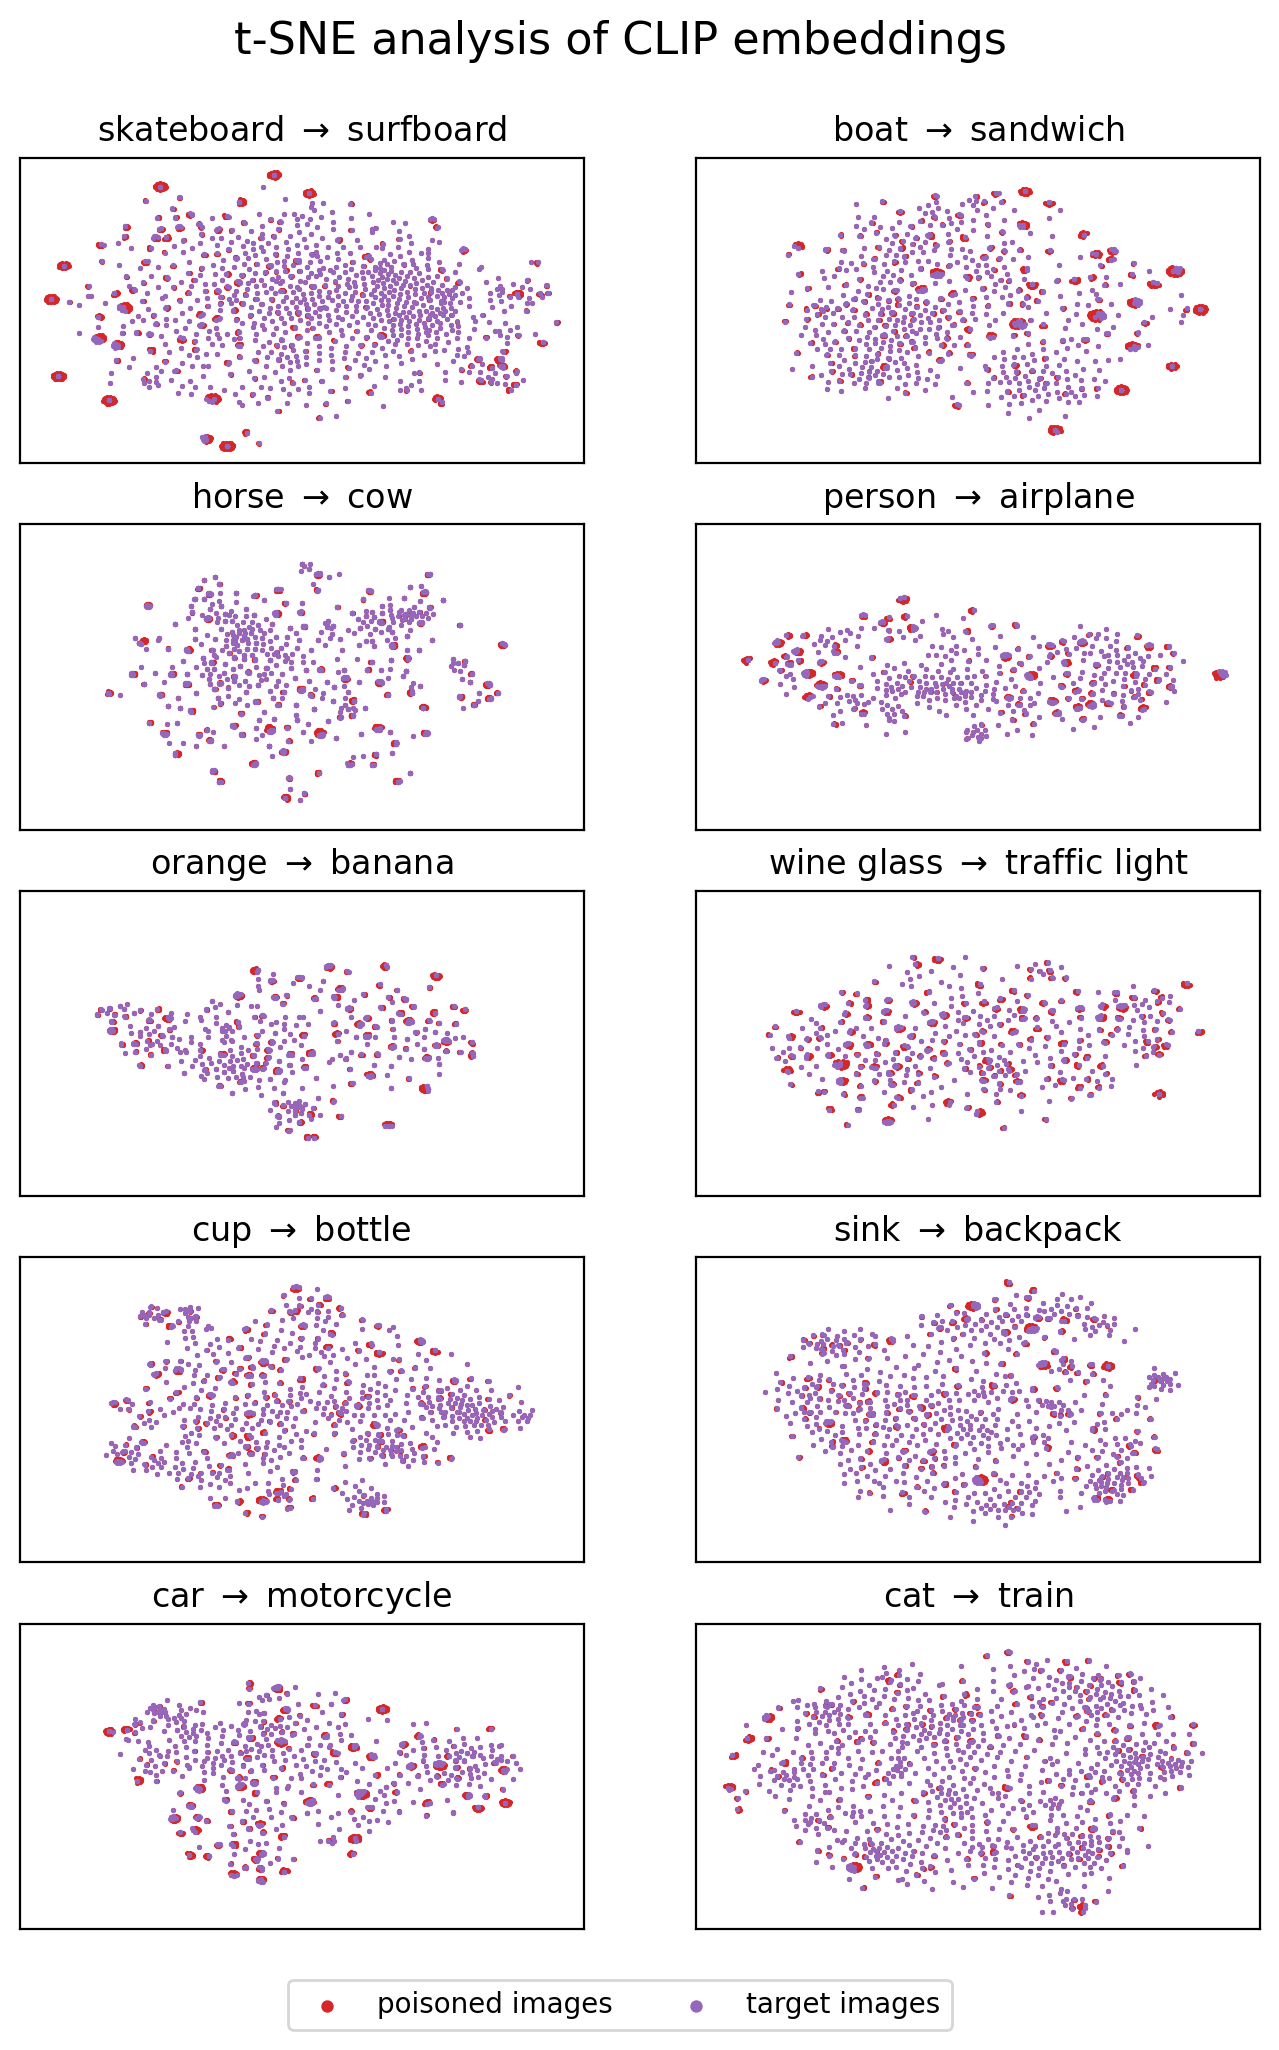
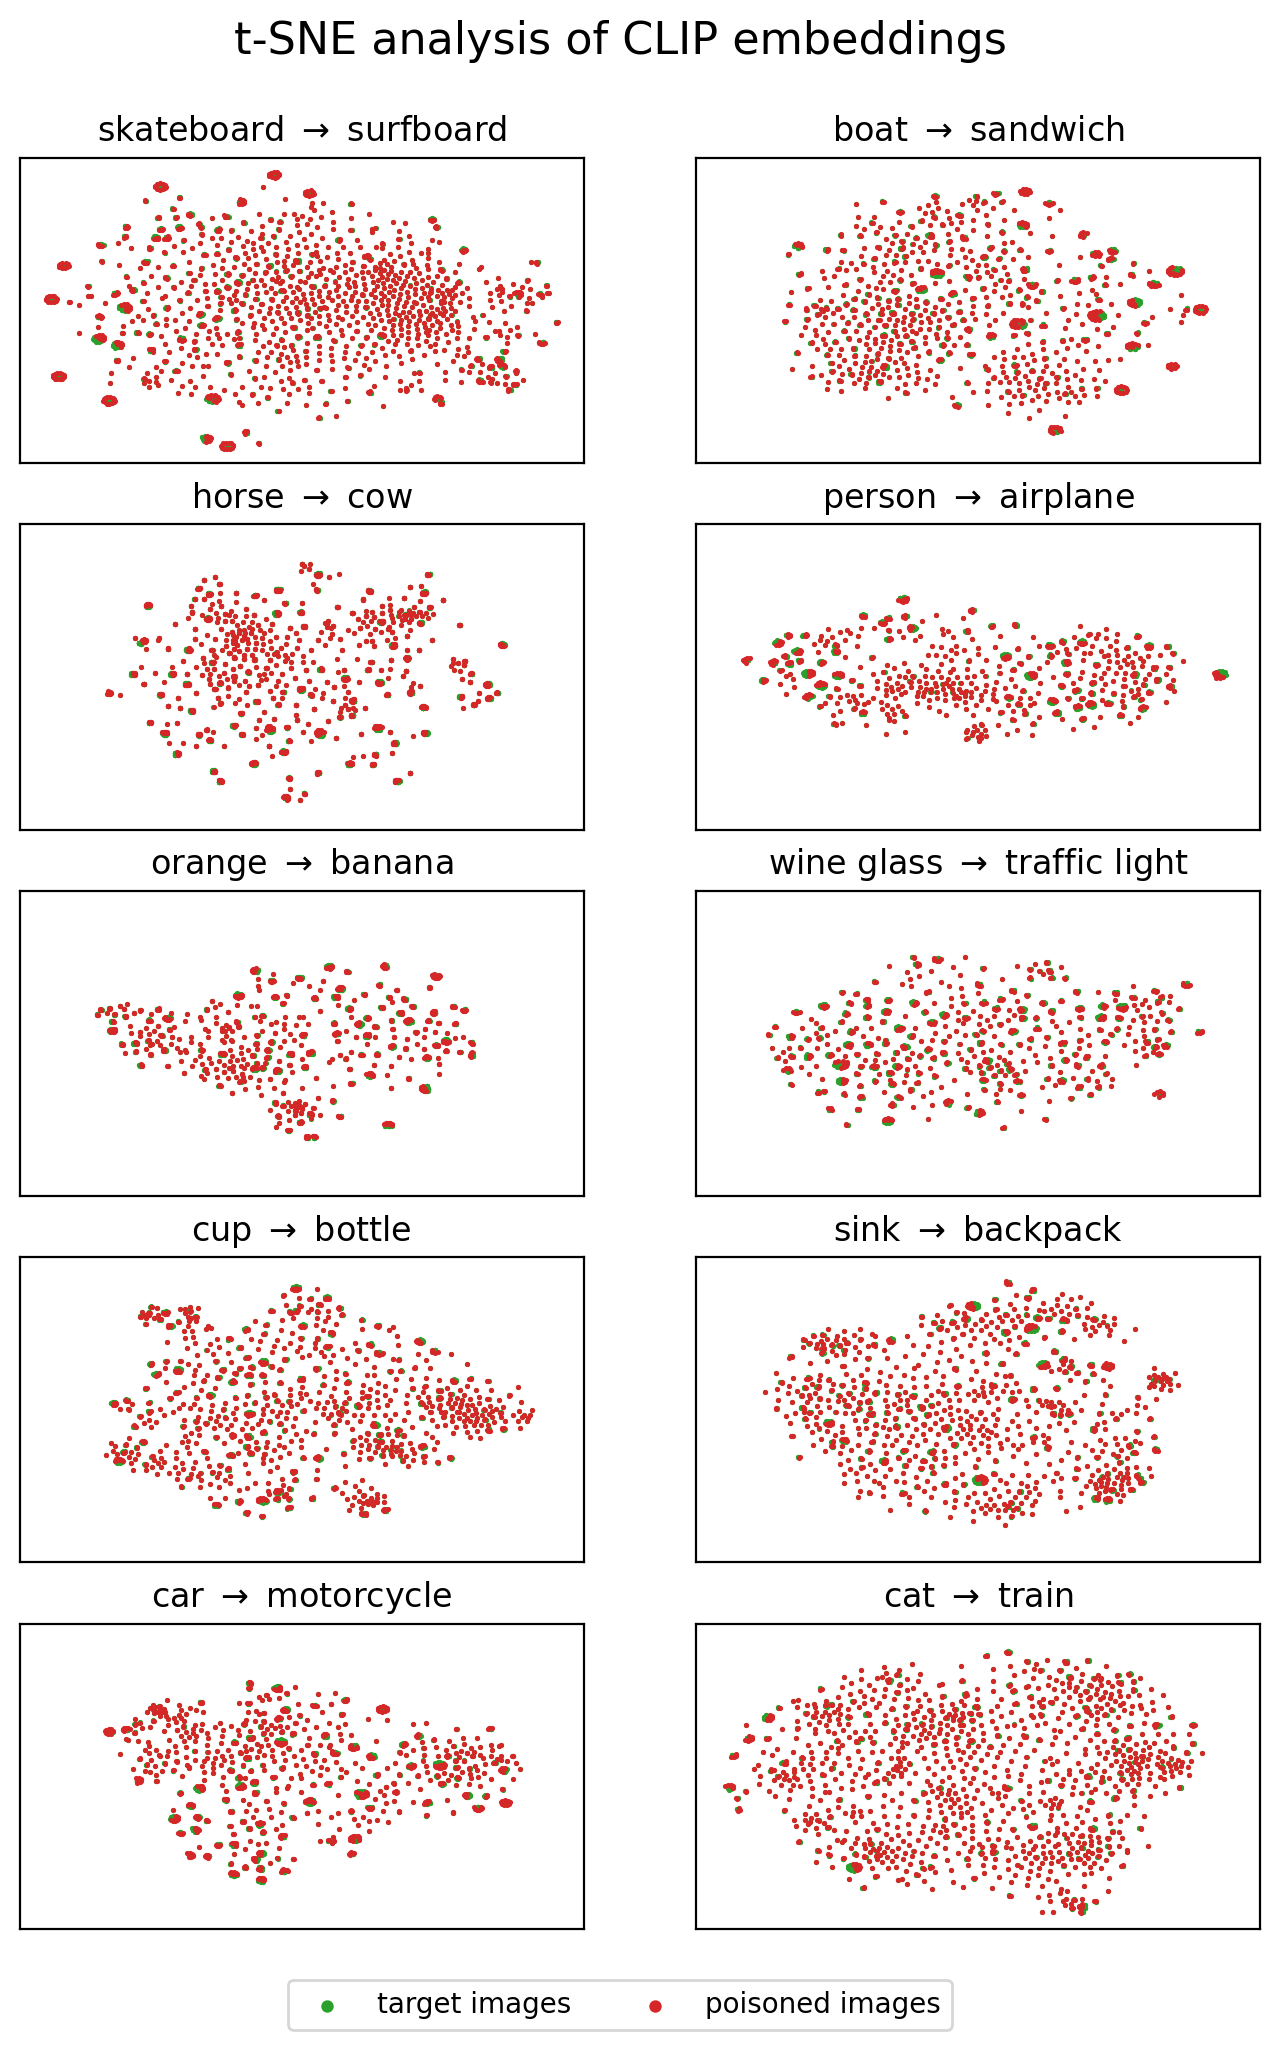
feat: changed color from purple to green

diff --git a/plot_embeddings.py b/plot_embeddings.py
@@ -15,7 +15,7 @@ CMAP = mpl.colormaps['tab10']
 COLORS = {
     'original': CMAP(0.0),
     'poisoned': CMAP(0.3),
-    'target': CMAP(0.4)
+    'target': CMAP(0.2)
 }
 
 
